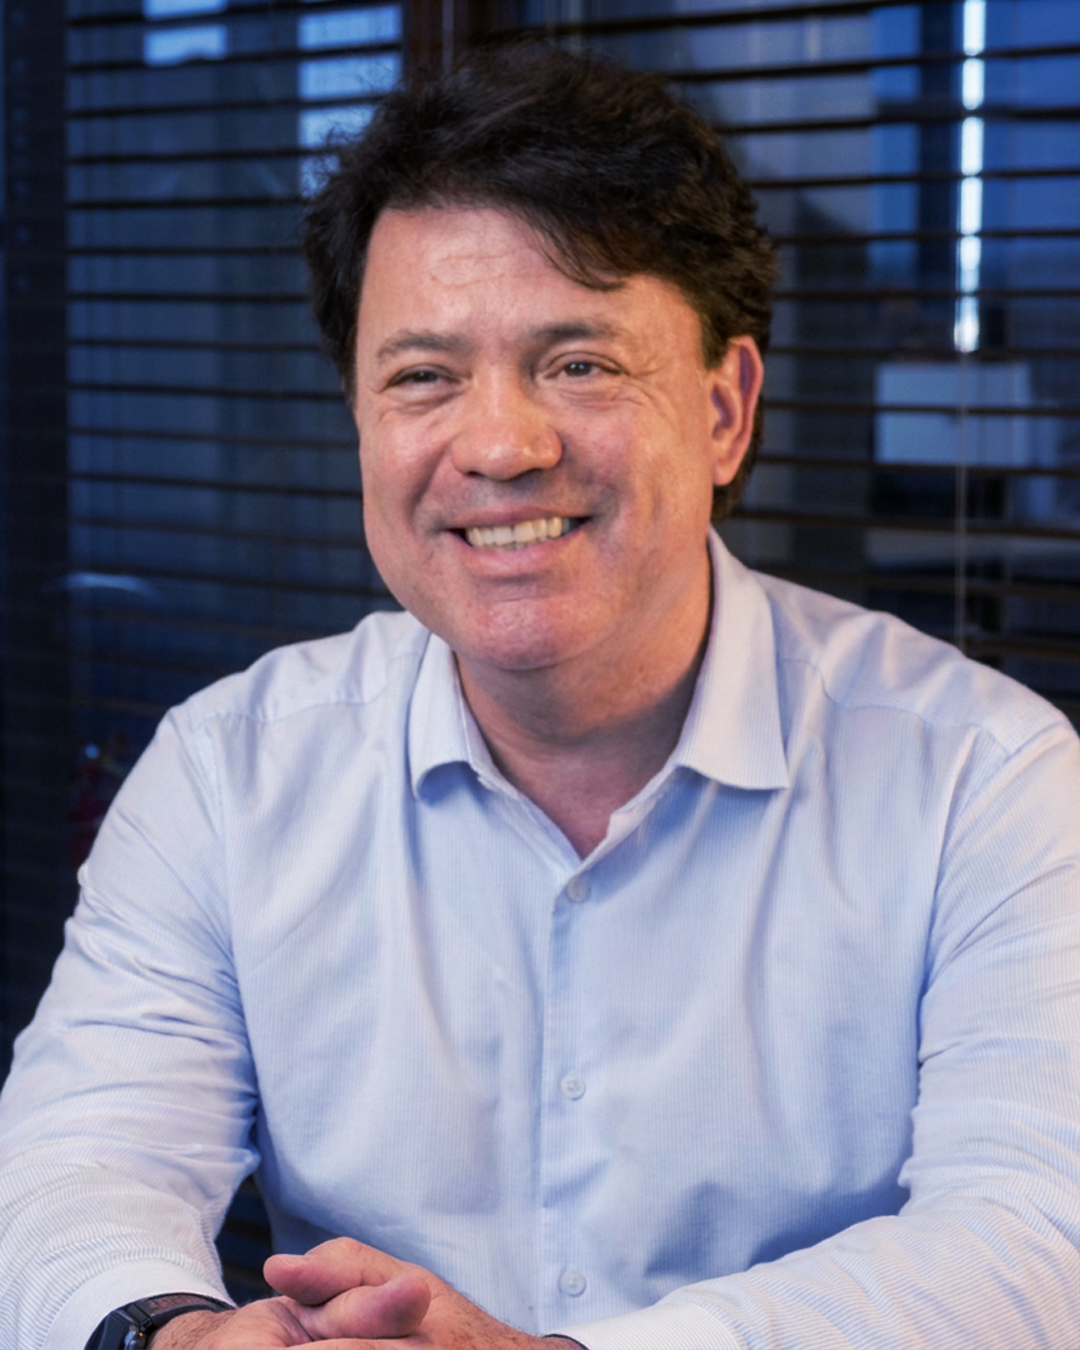
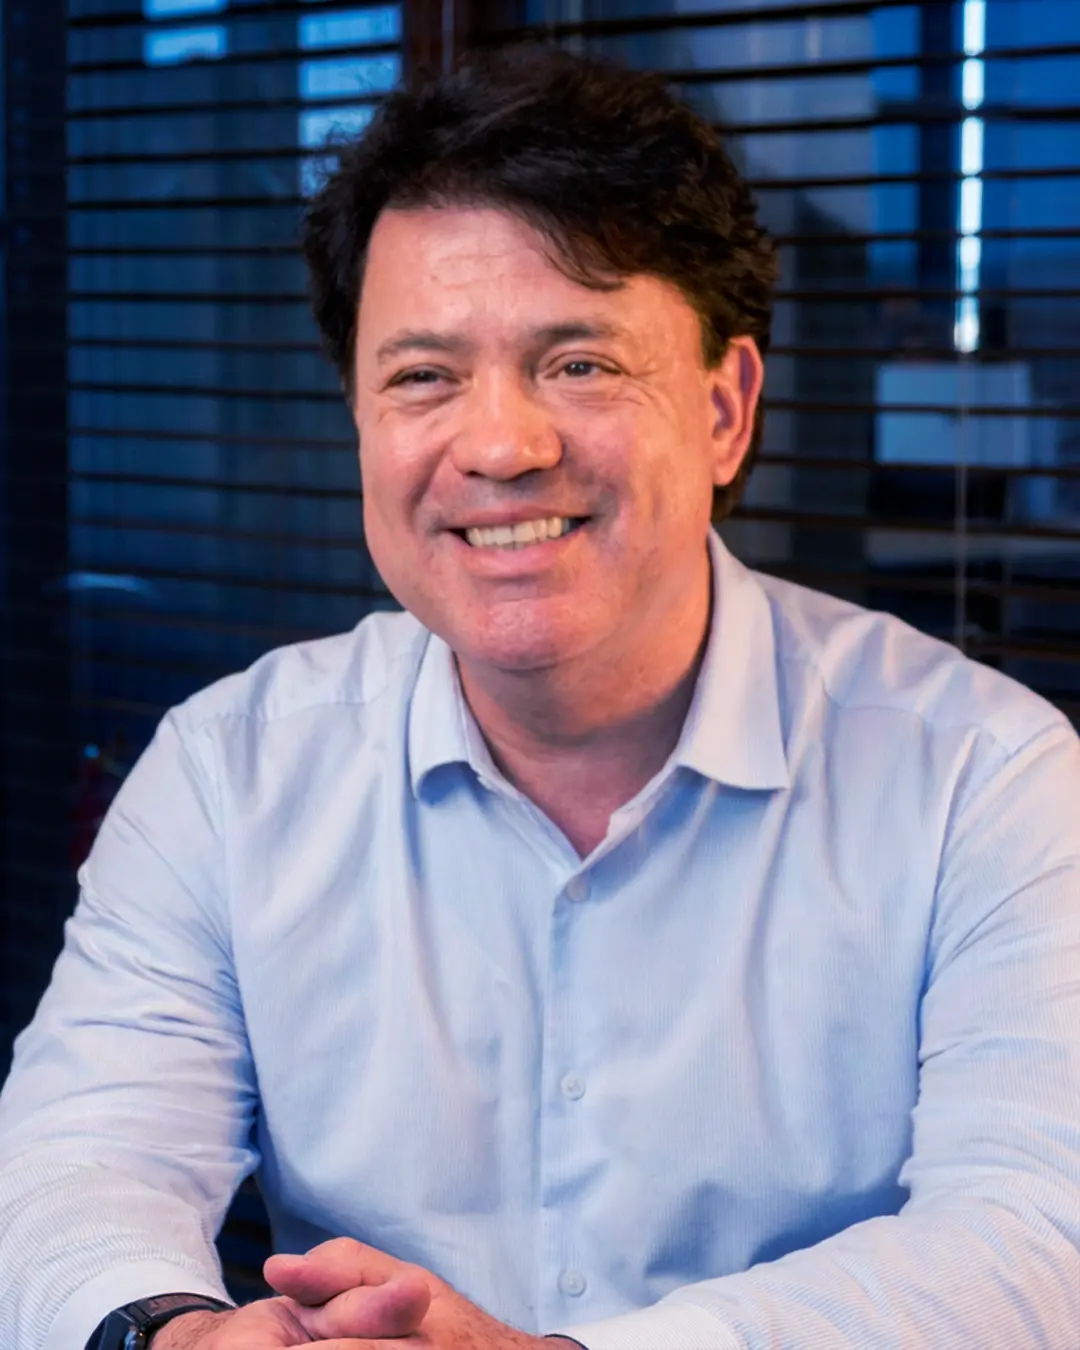
perf: otimizacoes de performance para Netlify
Recomprime adriano_subira.webp: 1.3MB para 58KB (impacto direto no LCP).
netlify.toml: adiciona cache headers de 1 ano para JS, CSS, WebP e PNG,
e no-cache para index.html. index.html: adiciona preload do Google Fonts.
vite.config.js: separa vendor (React) e gsap em chunks independentes
para melhor estrategia de cache no browser.

diff --git a/index.html b/index.html
@@ -19,6 +19,7 @@
     <!-- Google Fonts -->
     <link rel="preconnect" href="https://fonts.googleapis.com">
     <link rel="preconnect" href="https://fonts.gstatic.com" crossorigin>
+    <link rel="preload" as="style" href="https://fonts.googleapis.com/css2?family=Montserrat:ital,wght@0,400;0,600;0,700;1,700&family=JetBrains+Mono:wght@400;700&display=swap" />
     <link href="https://fonts.googleapis.com/css2?family=Montserrat:ital,wght@0,400;0,600;0,700;1,700&family=JetBrains+Mono:wght@400;700&display=swap" rel="stylesheet">
   </head>
   <body class="bg-background text-primary antialiased overflow-x-hidden selection:bg-accent selection:text-white">

diff --git a/vite.config.js b/vite.config.js
@@ -14,5 +14,13 @@ export default defineConfig({
   },
   build: {
     assetsDir: '', // Coloca tudo na raiz para evitar erro de pasta
+    rollupOptions: {
+      output: {
+        manualChunks: {
+          vendor: ['react', 'react-dom'],
+          gsap: ['gsap', '@gsap/react'],
+        }
+      }
+    }
   }
 })
